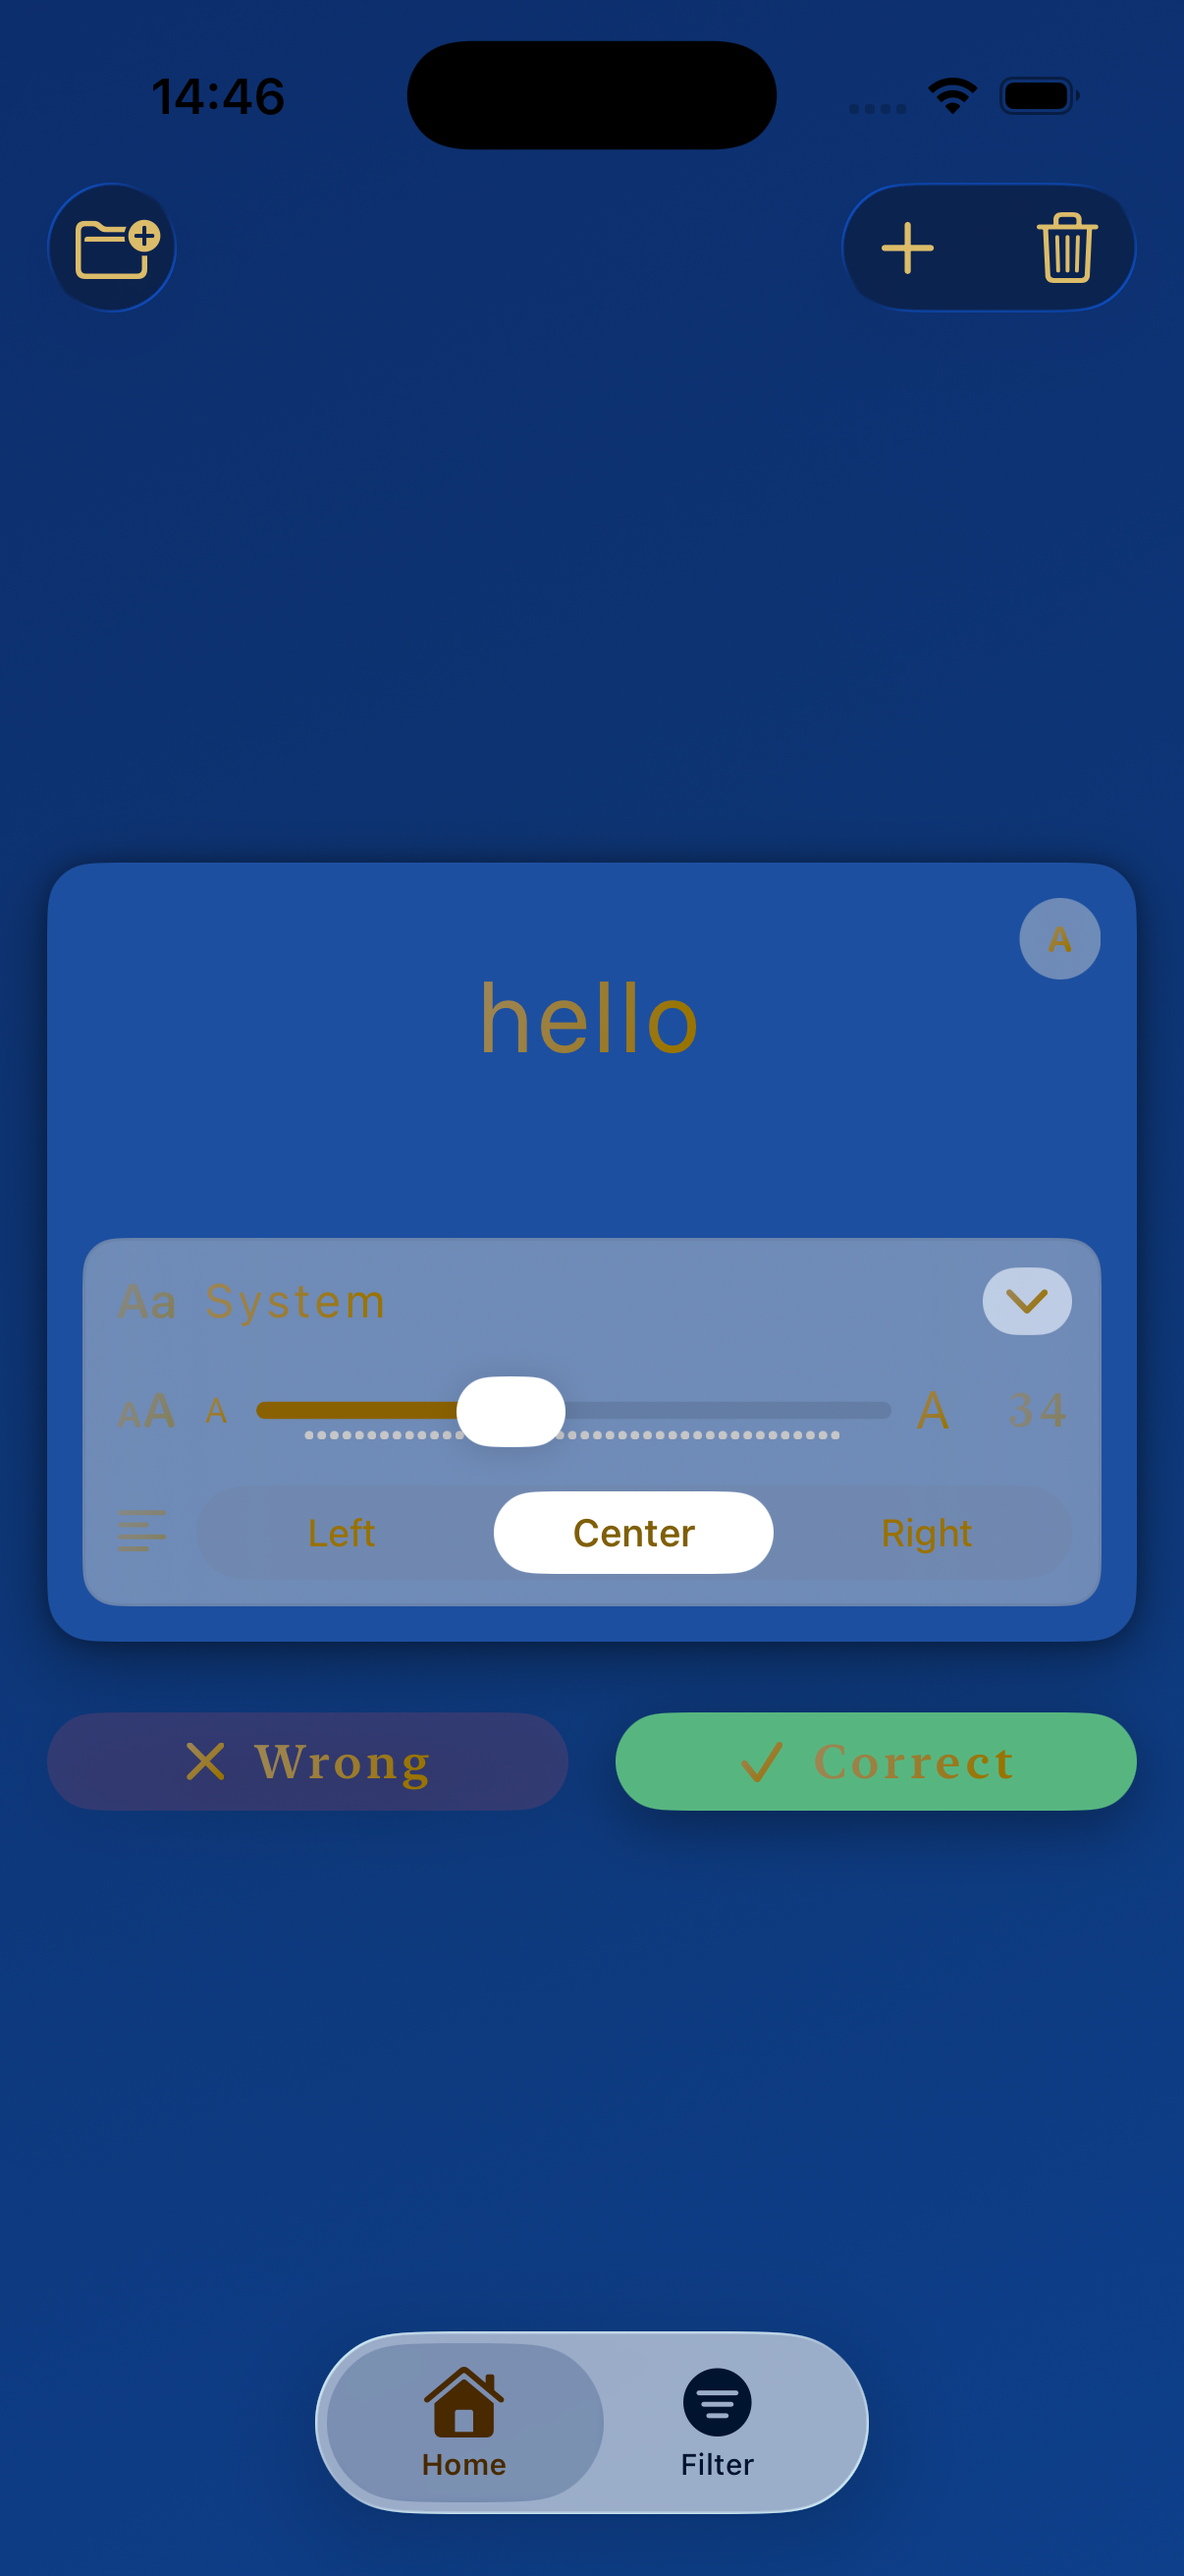
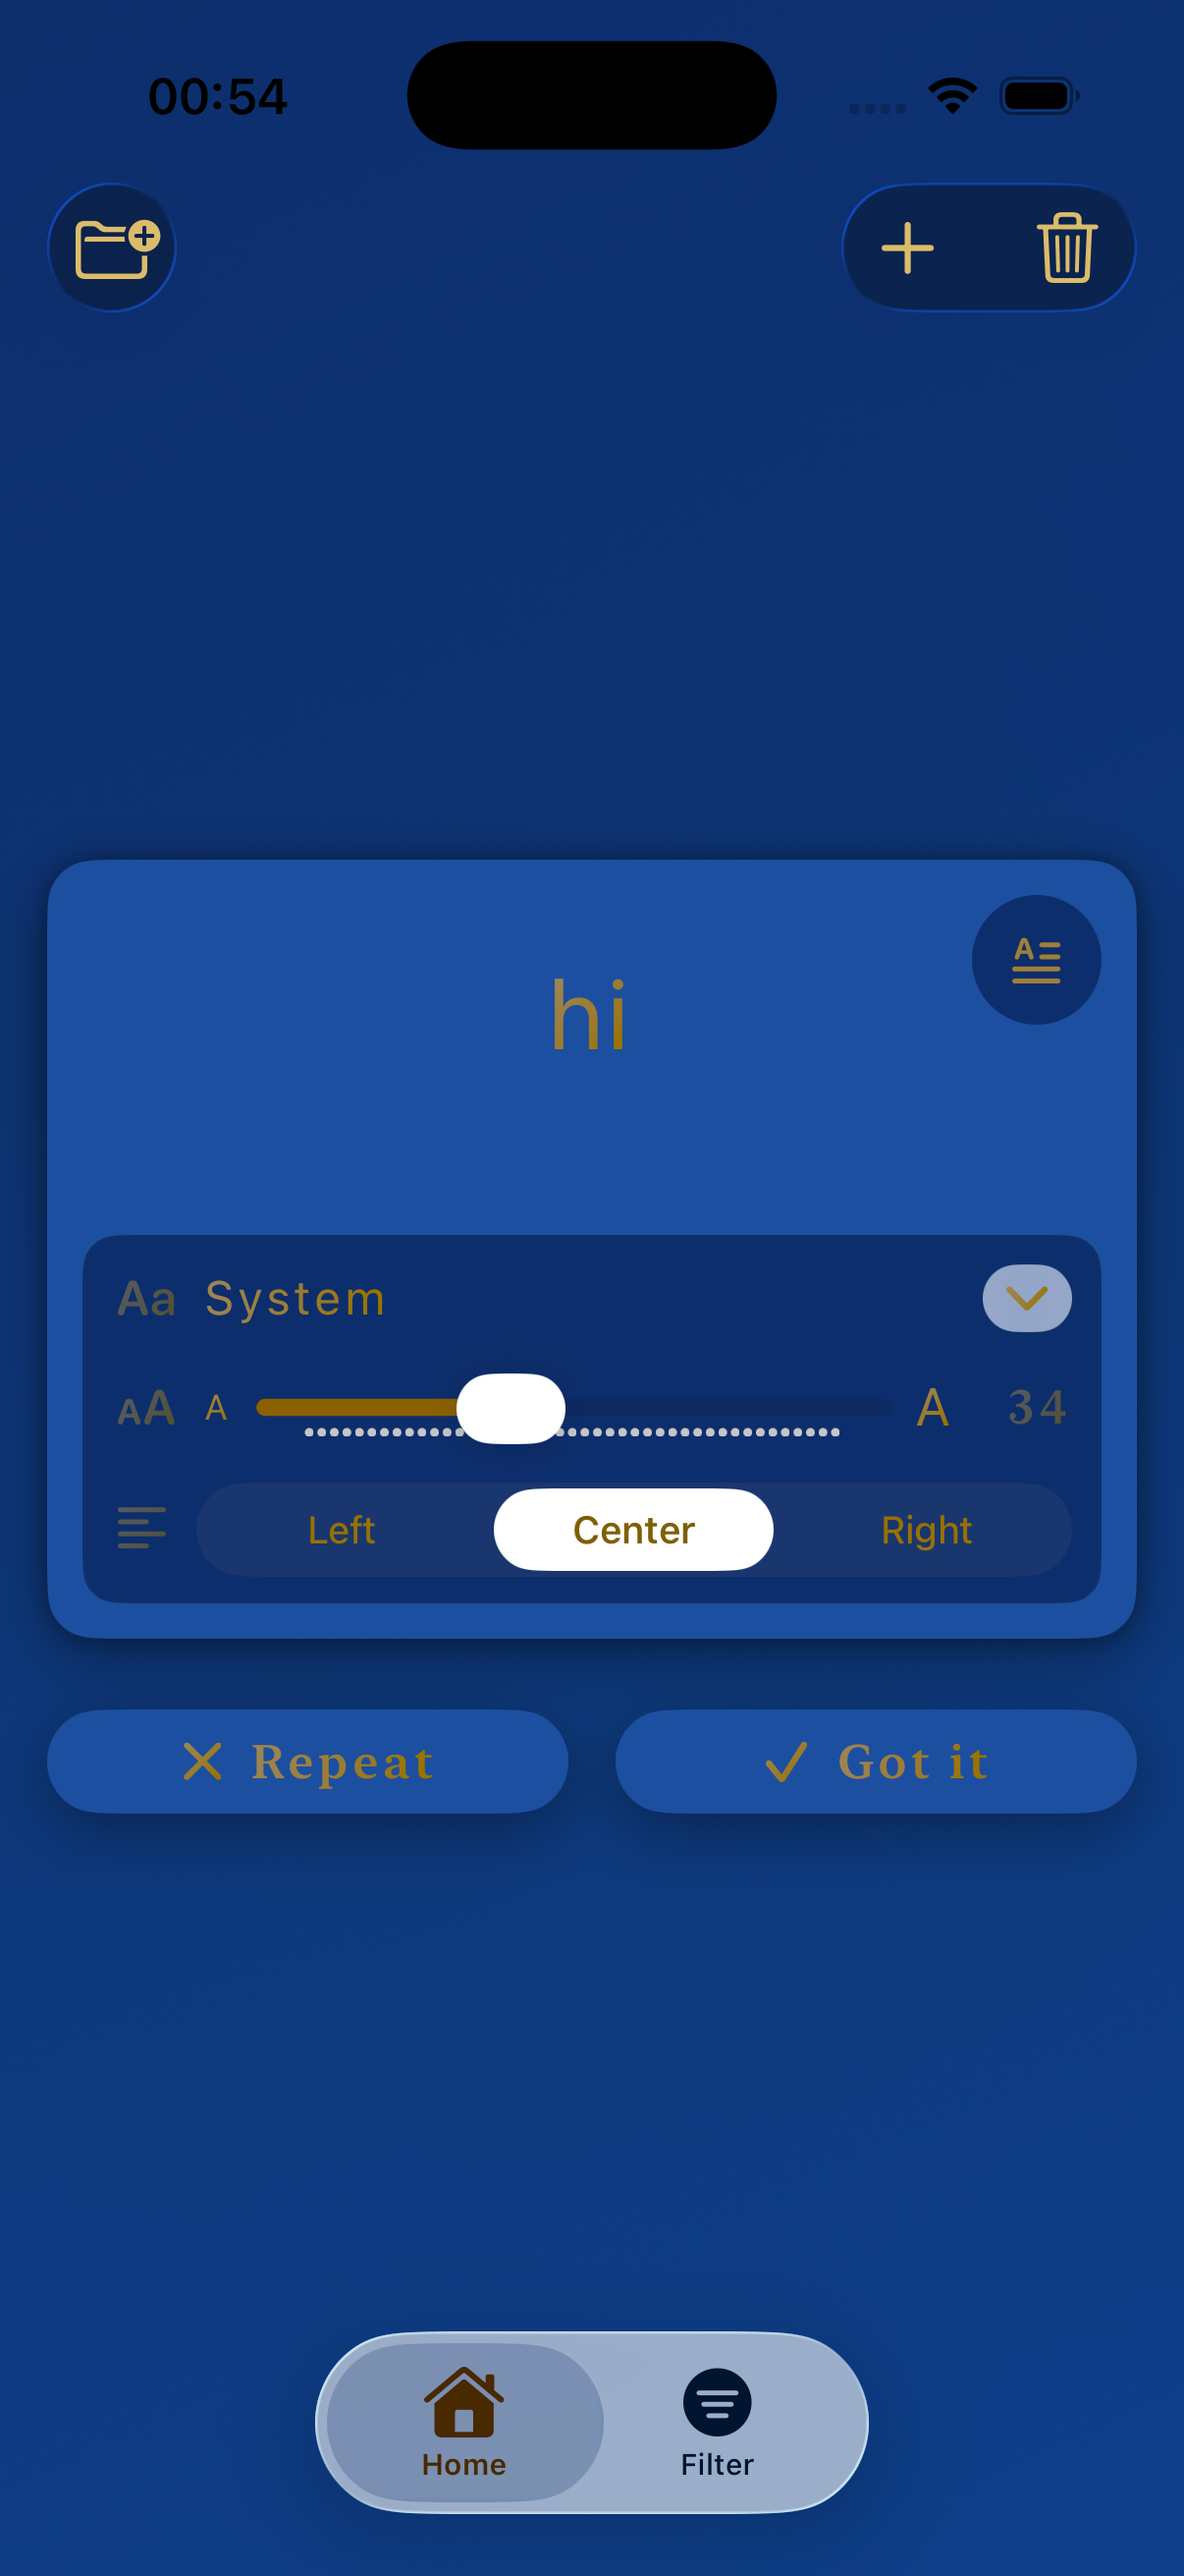
Highlight buttons

diff --git a/Elorize/Flashcard/Views/FlashCardView.swift b/Elorize/Flashcard/Views/FlashCardView.swift
@@ -44,7 +44,11 @@ struct FlashCardView: View {
 				let threshold: CGFloat = 80
 				if value.translation.width > threshold || value.translation.width < -threshold {
 					// Swipe left or right -> next card (no grading)
-					viewModel.actions.onNext()
+					// Show a brief neutral highlight-less transition
+					// Delay advancing slightly to allow any prior highlight to be visible
+					DispatchQueue.main.asyncAfter(deadline: .now() + 0.2) {
+						viewModel.actions.onNext()
+					}
 					resetCardPosition()
 					viewModel.isInteracting = false
 					viewModel.isFlipped = false
@@ -82,9 +86,17 @@ private extension FlashCardView {
 	@ViewBuilder
 	func card() -> some View {
 		ZStack {
-			RoundedRectangle(cornerRadius: 16, style: .continuous)
-				.fill(Color.app(.card_background))
-				.shadow(radius: 4)
+      let bgColor: Color = {
+        switch viewModel.highlightState {
+        case .success: return Color.app(.success)
+        case .error: return Color.app(.error)
+        case .none: return Color.app(.card_background)
+        }
+      }()
+      RoundedRectangle(cornerRadius: 16, style: .continuous)
+        .fill(bgColor)
+        .shadow(radius: 4)
+        .animation(.easeInOut(duration: 0.2), value: viewModel.highlightState)
 			
 			VStack(spacing: 12) {
 				cardTextArea()
@@ -121,27 +133,41 @@ private extension FlashCardView {
 	@ViewBuilder
 	func buttonWrong() -> some View {
 		Button {
-			viewModel.actions.onWrong()
-			viewModel.isFlipped = false
+			viewModel.flashErrorHighlight {
+				viewModel.actions.onWrong()
+				viewModel.isFlipped = false
+			}
 		} label: {
-			Label("Review", systemImage: "xmark")
+			Label("Repeat", systemImage: "xmark")
 				.frame(maxWidth: .infinity)
 		}
-		.buttonStyle(.bordered)
-		.tint(Color.app(.error))
+		.buttonStyle(
+			ComposedPressTintStyle(
+				kind: .borderedProminent,
+				normalTint: Color.app(.button_default),
+				pressedTint: Color.app(.button_pressed)
+			)
+		)
 	}
 
 	@ViewBuilder
 	func buttonCorrect() -> some View {
 		Button {
-			viewModel.actions.onCorrect()
-			viewModel.isFlipped = false
+			viewModel.flashSuccessHighlight {
+				viewModel.actions.onCorrect()
+				viewModel.isFlipped = false
+			}
 		} label: {
 			Label("Got it", systemImage: "checkmark")
 				.frame(maxWidth: .infinity)
 		}
-		.buttonStyle(.borderedProminent)
-		.tint(Color.app(.success))
+		.buttonStyle(
+			ComposedPressTintStyle(
+				kind: .borderedProminent,
+				normalTint: Color.app(.button_default),
+				pressedTint: Color.app(.button_pressed)
+			)
+		)
 	}
 
 	@ViewBuilder
@@ -245,9 +271,10 @@ private extension FlashCardView {
 				viewModel.showsTextControls.toggle()
 			}
 		} label: {
-			Image(systemName: "textformat.size.smaller")
-				.padding(8)
-				.background(.ultraThinMaterial, in: Circle())
+			Image(systemName: "character.text.justify")
+				.foregroundStyle(Color.app(.text_highlight))
+				.frame(width: 44, height: 44)
+				.background(Color.app(.background_primary), in: Circle())
 		}
 		.accessibilityLabel("Toggle text controls")
 	}

diff --git a/Elorize/Flashcard/ViewModels/FlashCardViewModel.swift b/Elorize/Flashcard/ViewModels/FlashCardViewModel.swift
@@ -5,6 +5,12 @@ internal import Combine
 @MainActor
 final class FlashCardViewModel: ObservableObject {
 
+	enum HighlightState {
+		case none
+		case success
+		case error
+	}
+
 	struct Actions {
 		var onWrong: () -> Void = {}
 		var onCorrect: () -> Void = {}
@@ -24,6 +30,7 @@ final class FlashCardViewModel: ObservableObject {
 	@Published var showsTextControls: Bool = false
 	@Published var isInteracting: Bool = false
 	@Published var textAlignment: TextAlignment = .center
+	@Published var highlightState: HighlightState = .none
 	var alignment: Alignment {
 		switch textAlignment {
 			case .leading: .leading
@@ -75,6 +82,24 @@ final class FlashCardViewModel: ObservableObject {
 			return .system(size: storedFontSize)
 		} else {
 			return .custom(storedFontName, size: storedFontSize)
+		}
+	}
+
+	func flashSuccessHighlight(completion: (() -> Void)? = nil) {
+		highlightState = .success
+		Task { @MainActor in
+			try? await Task.sleep(nanoseconds: 1_000_000_000)
+			withAnimation(.easeInOut) { self.highlightState = .none }
+			completion?()
+		}
+	}
+
+	func flashErrorHighlight(completion: (() -> Void)? = nil) {
+		highlightState = .error
+		Task { @MainActor in
+			try? await Task.sleep(nanoseconds: 1_000_000_000)
+			withAnimation(.easeInOut) { self.highlightState = .none }
+			completion?()
 		}
 	}
 }

diff --git a/Elorize/Colors/AppColor.swift b/Elorize/Colors/AppColor.swift
@@ -3,18 +3,20 @@ import Foundation
 /// Type-safe list of color assets available in the project.
 /// These cases must match the names of your Color assets in Assets.xcassets exactly.
 public enum AppColor: String, CaseIterable {
-    case accent_default
-    case accent_pressed
-    case accent_subtle
-    case background_primary
-    case background_secondary
-    case card_background
-    case error
-    case gold_primary
-    case success
-    case text_highlight
-    case text_placeholder
-    case text_primary
-    case text_secondary
-    case warning
+	case accent_default
+	case accent_pressed
+	case accent_subtle
+	case background_primary
+	case background_secondary
+	case button_default
+	case button_pressed
+	case card_background
+	case error
+	case gold_primary
+	case success
+	case text_highlight
+	case text_placeholder
+	case text_primary
+	case text_secondary
+	case warning
 }

diff --git a/Elorize/General UI Elements/ComposedPressTintStyle.swift b/Elorize/General UI Elements/ComposedPressTintStyle.swift
@@ -1,0 +1,25 @@
+import SwiftUI
+
+struct ComposedPressTintStyle: ButtonStyle {
+	enum Kind { case bordered, borderedProminent }
+	let kind: Kind
+	let normalTint: Color
+	let pressedTint: Color
+	
+	func makeBody(configuration: Configuration) -> some View {
+		let currentTint = configuration.isPressed ? pressedTint : normalTint
+		let tintedLabel = configuration.label
+			.frame(maxWidth: .infinity)
+			.tint(currentTint)
+		
+		AnyView(
+			tintedLabel
+				.padding(.vertical, 8)
+				.padding(.horizontal, 10)
+				.background(
+					Capsule()
+						.fill(currentTint)
+				)
+		)
+	}
+}

diff --git a/Elorize/Flashcard/View+FlashCard.swift b/Elorize/Flashcard/View+FlashCard.swift
@@ -6,7 +6,7 @@ extension View {
 			.padding(10)
 			.background(
 				RoundedRectangle(cornerRadius: 12, style: .continuous)
-					.fill(.ultraThinMaterial)
+					.fill(Color.app(.background_primary))
 			)
 			.overlay(
 				RoundedRectangle(cornerRadius: 12, style: .continuous)

diff --git a/README.md b/README.md
@@ -9,6 +9,8 @@ Elegant, minimalist flashcards with a Parisian-inspired design.
 <p align="center">
   <img src="Images/splash.png" alt="Splash" width="240" style="margin-right:12px;" />
   <img src="Images/home.png" alt="Home" width="240" style="margin-right:12px;" />
+  <img src="Images/home_wrong.png" alt="Home" width="240" style="margin-right:12px;" />
+  <img src="Images/home_correct.png" alt="Home" width="240" style="margin-right:12px;" />
   <img src="Images/text_controls.png" alt="Home" width="240"   style="margin-right:12px;" />
   <img src="Images/filter.png" alt="Home" width="240" style="margin-right:12px;" />
   <img src="Images/filter_editmode.png" alt="Home" width="240" style="margin-right:12px;" />
@@ -22,6 +24,7 @@ Elegant, minimalist flashcards with a Parisian-inspired design.
   <p align="center">
   <img src="Images/home_ipad_h.png" alt="Home iPad H" width="240" style="margin-right:12px;" />
   <img src="Images/home_ipad_v.png" alt="Home iPad V" width="240" />
+  <img src="Images/filter_ipad_h.png" alt="Filter iPad H" width="240" />
 </p>
 
 ---
